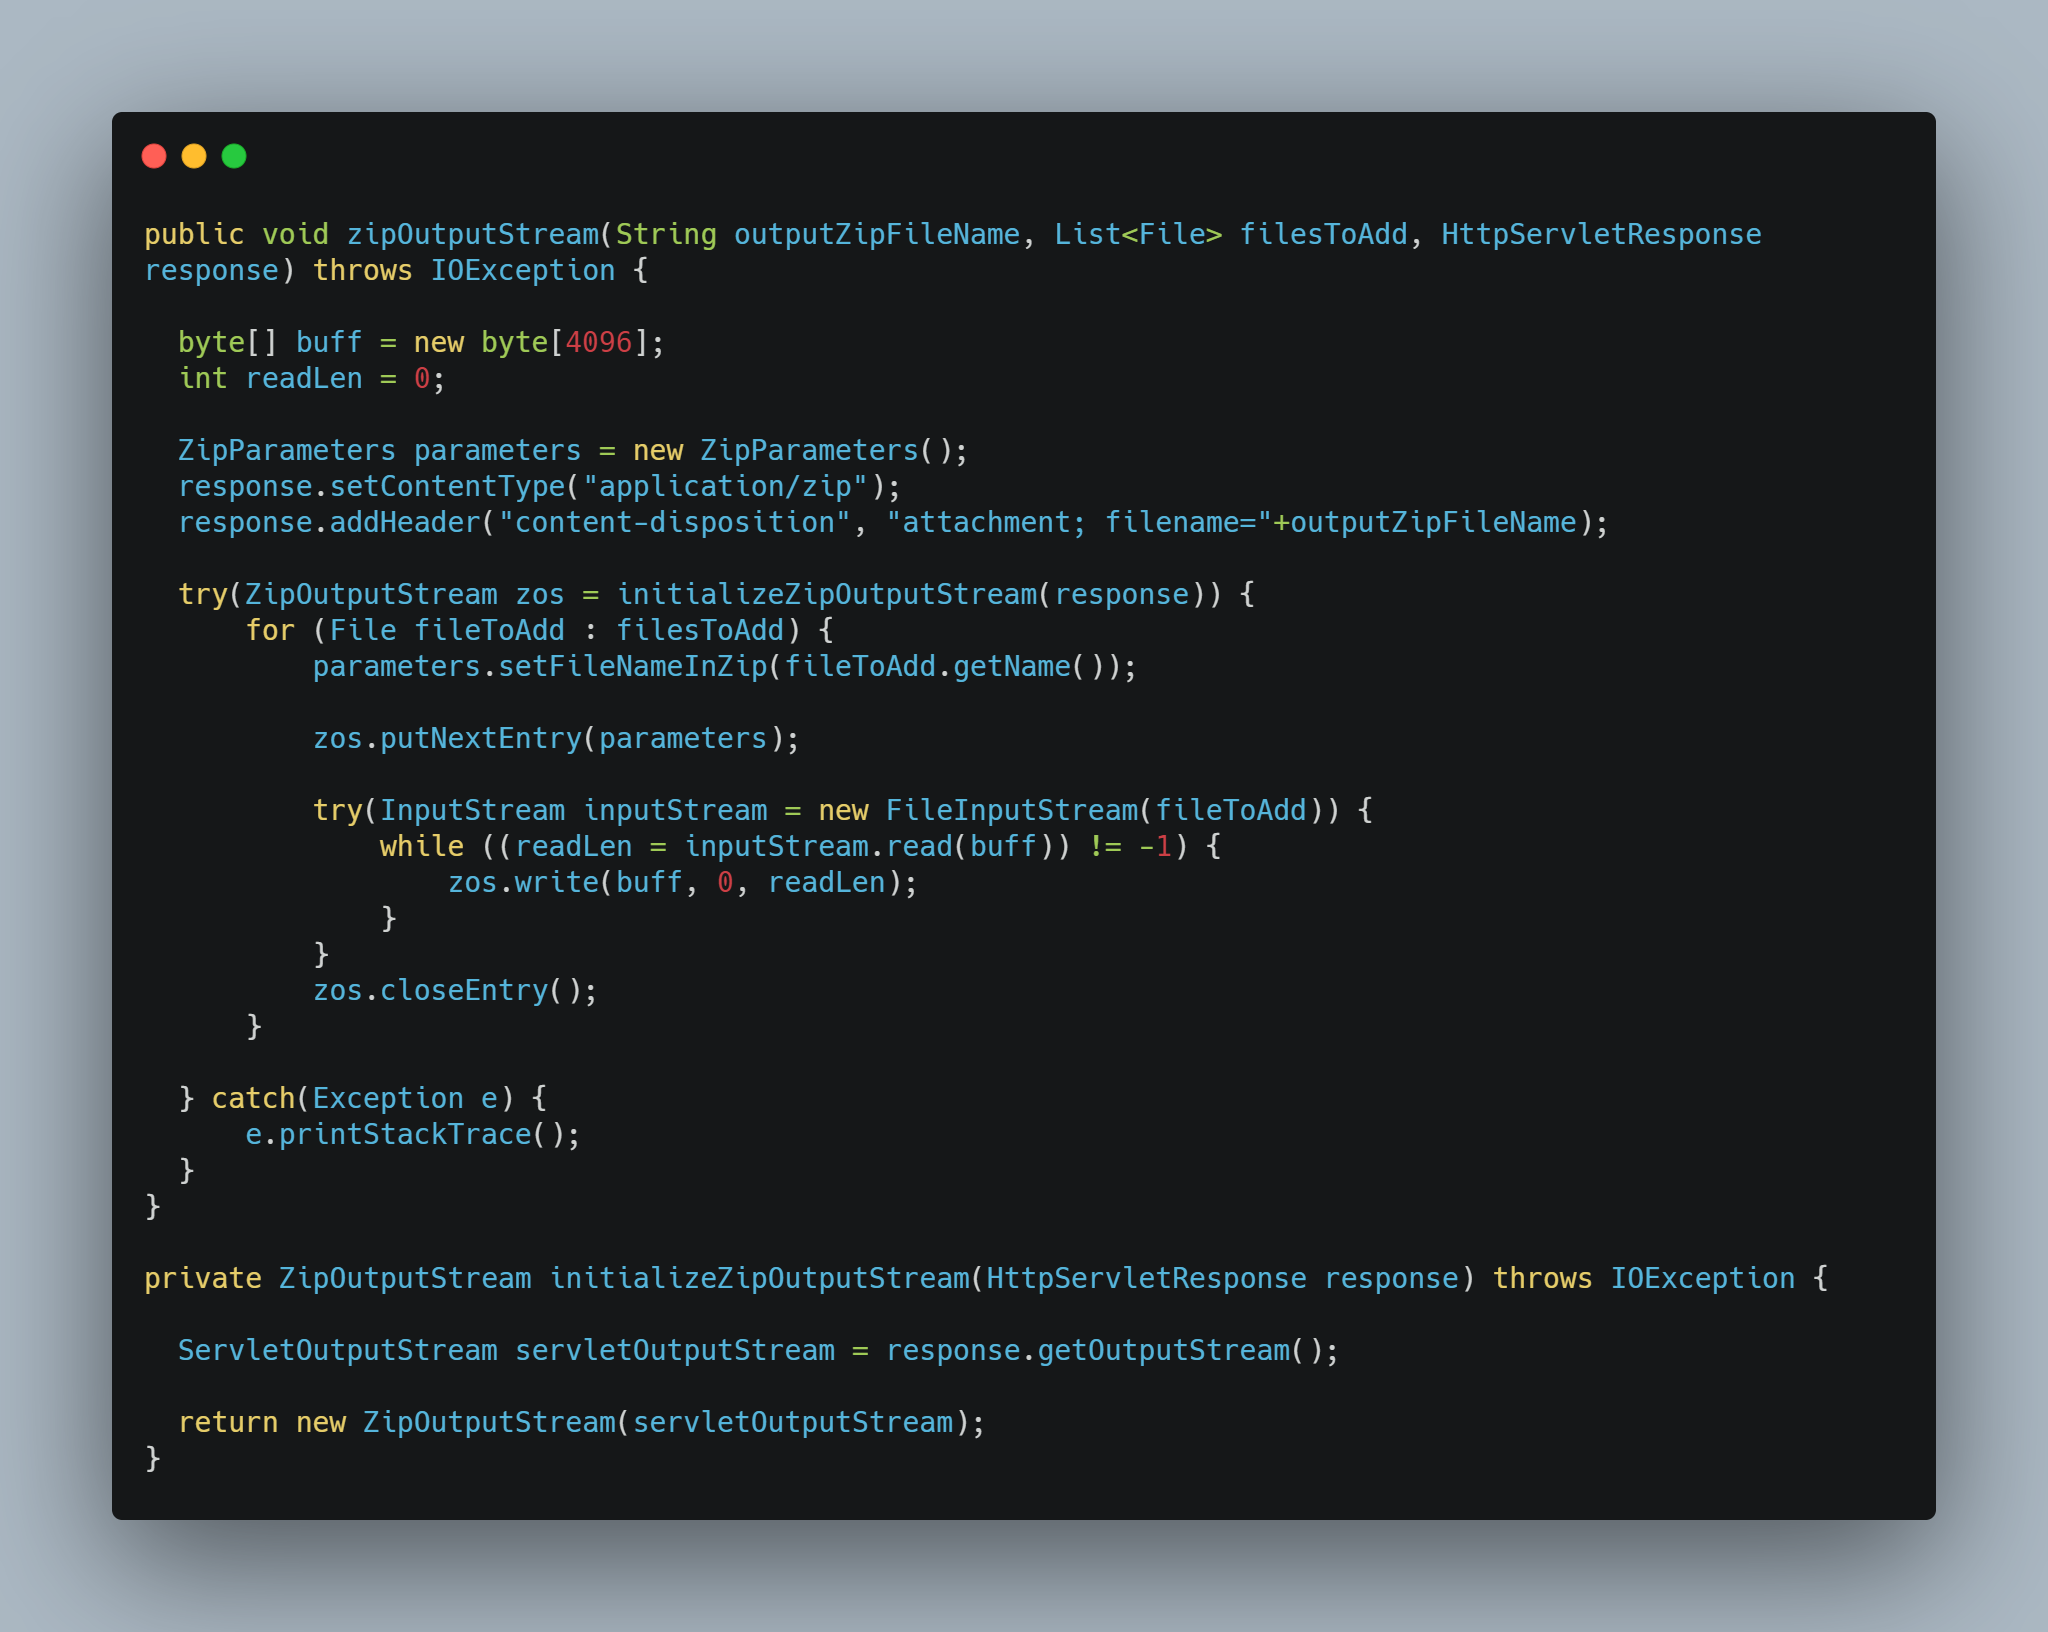
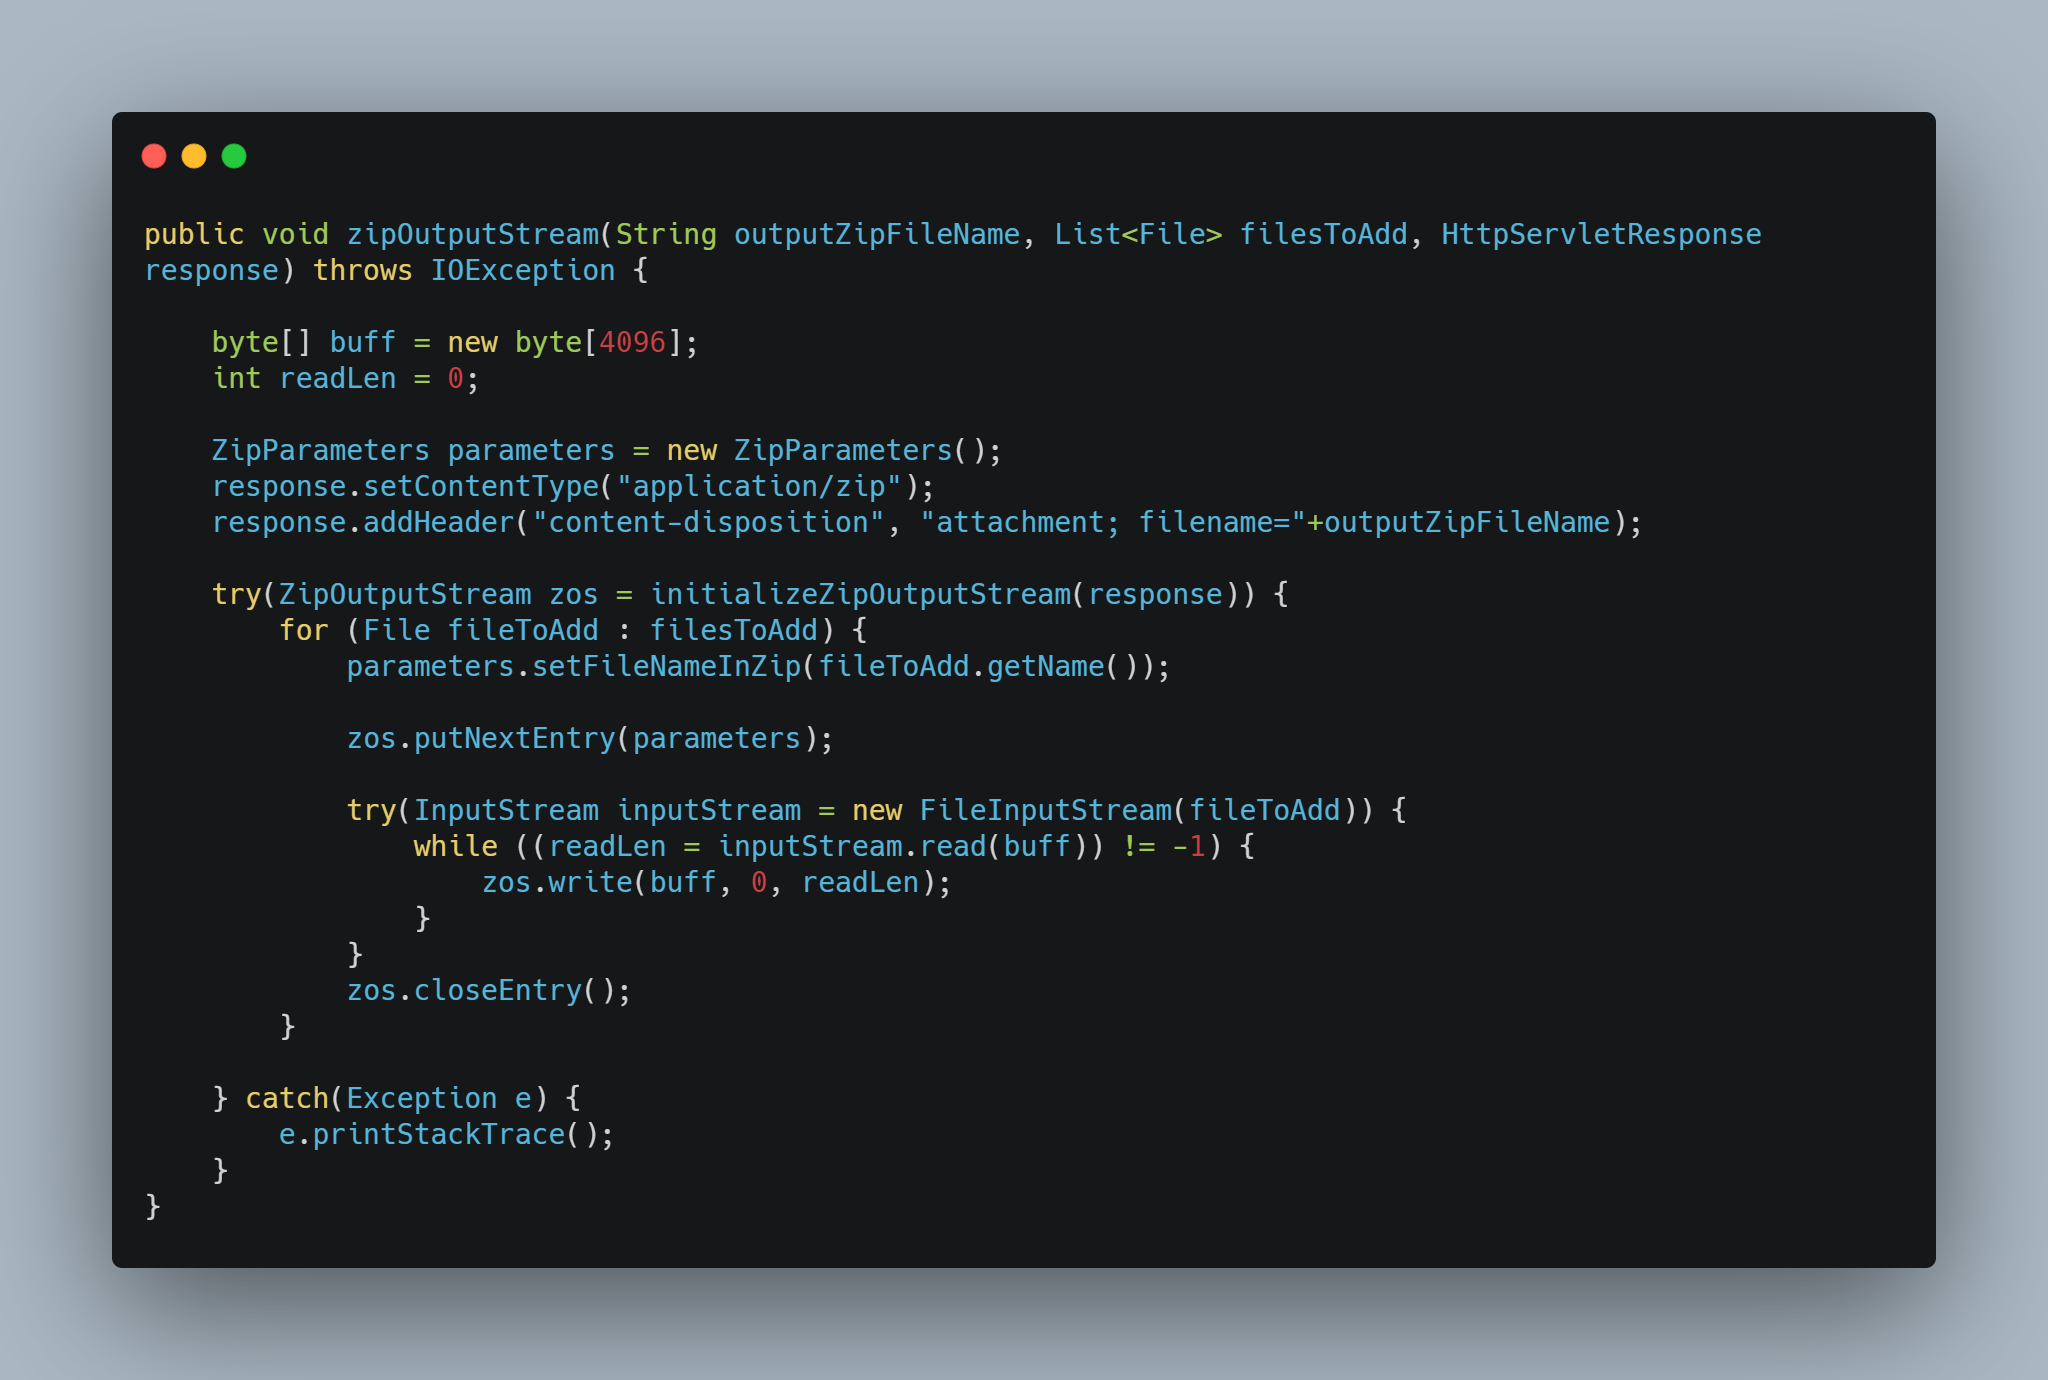
이미지 쪼개서 재 업로드

diff --git a/_posts/2021-02-26-zip-output-stream.md b/_posts/2021-02-26-zip-output-stream.md
@@ -58,8 +58,8 @@ comments: true
 사용 예제는 아래 있다.
 
 <img src="/images/zipoutput-code.png">
-
 <img src="/images/zipoutput-code2.png">
+<img src="/images/zipoutput-code3.png">
 
 정말로 이게 최선의 방법인지는 자신이 없지만 조금이라도 나은 기능을 만들었다면
 개인적으로는 만족한다.
